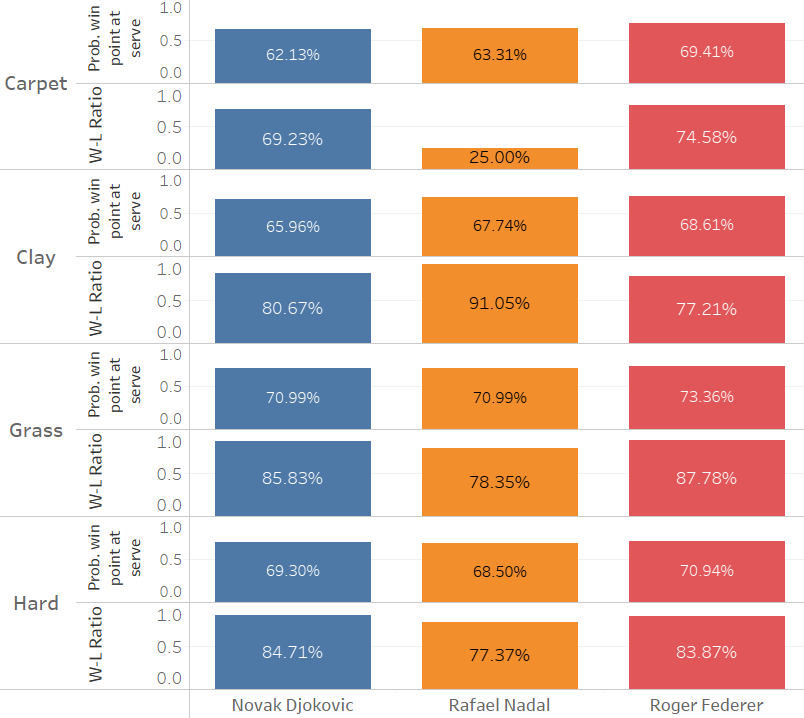
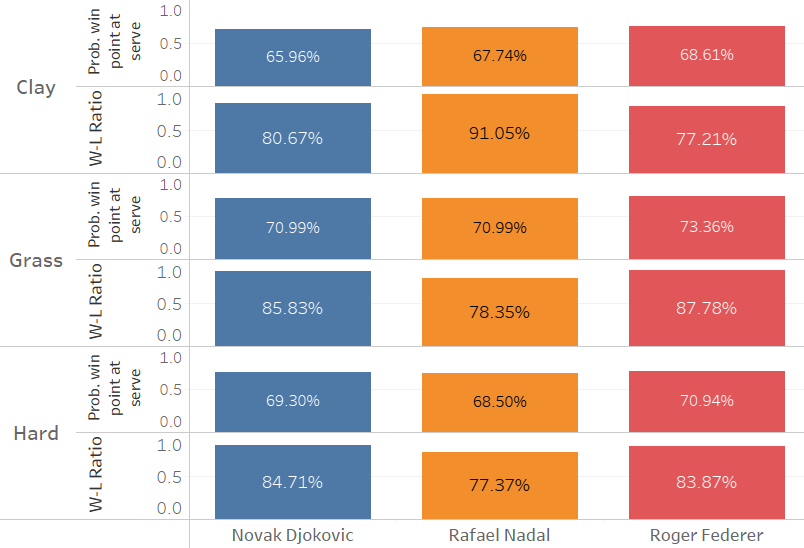
feat: corrections 1

diff --git a/README.md b/README.md
@@ -22,9 +22,13 @@
 <br> <br>
 
 ## INTRODUCTION
+Tennis is one of the most popular sports globally, acording to the Internationa Tennis Federation is calculated that 87 million of people played the white sport in 2022, which is an increment of 4.5% from 2018, more than 578,000 courts ara available worldwide in over 115,000 facilities. 
+
+As tennis is growing as a sport globally, the professional tennis circuit is growing accordingly, more people are interested to follow it and the accessibility to watch events happening around the world is better than ever. 
+
 There have been many great tennis players throughout the years, but none of them have shaped the sport as the Big Three. Roger Federer, Rafael Nadal, and Novak Djokovic are considered the greatest players that ever hold a tennis racket.
 
-In this project, I aim to analyze their performance and compare their statistics to gain insights into their careers, their strengths, and weaknesses. By examining data on their matches, rankings, and Grand Slam victories, I hope to shed light on the careers of these tennis legends and what has made them some of the greatest players to ever grace the court.
+In this project, I aim to analyze their performance and compare their statistics to gain insights into their careers. By examining data on their matches, rankings, and Grand Slam victories, I hope to showcase the careers of these players and what has made them some of the greatest athletes to ever grace the court.
 
 <br>
 
@@ -38,16 +42,13 @@ In this project, I aim to analyze their performance and compare their statistics
 <br>
 
 ## DATASET
-To answer my guiding questions, I am using data of every match played in the profesional tennis circuit. Data was obtained from a Git repository named [Tennis ATP](https://github.com/JeffSackmann/tennis_atp) that was created and is currently maintained by Jeff Sackman. Important statistics of every match can be observed, alongside information about the tournaments, ranking and more.
+To answer my guiding questions, I am using data of every match played in the profesional tennis circuit from 2020 to 2022. Data was obtained from a Git repository named [Tennis ATP](https://github.com/JeffSackmann/tennis_atp) that was created and is currently maintained by Jeff Sackman. Important statistics of every match can be observed, alongside information about the tournaments, ranking and more.
 
 <br>
 
 ## METHODOLOGY
 1. Problem Definition
-2. Data Cleaning
-    - Null values
-    - Type of columns
-    - Column names
+2. Data Cleaning and Wrangling
 3. Feature Engineering
 4. Deep Analysis
 5. Data Visualization
@@ -56,26 +57,26 @@ To answer my guiding questions, I am using data of every match played in the pro
 <br>
 
 ## TOOLS
-- Python: used for data cleaning, data wrangling and exploration of data
+- Python: used for data cleaning, wrangling, and exploration
     - [Pandas](https://pandas.pydata.org/)
     - [Numpy](https://numpy.org/)
     - [Matplotlib](https://matplotlib.org/)
     - [Seaborn](https://seaborn.pydata.org/)
-- Tableau: used to create final visualziations to showcase my findings
-- GitHub: used to have a version control of my work and publish my project using GitHub Pages.
+- Tableau: used to create visualziations to show my findings
+- GitHub: used for version control of my work and publish my project using GitHub Pages.
 
 <br>
 
 ## Q1: HOW DID FEDERER, NADAL AND DJOKOVIC MOVED IN THE RANKINGS THROUGHOUT THE YEARS?
-The ATP (Association of Tennis Professionals) Ranking is the system used by the men's professional tennis tour to determine the top players in the world based on their performance in tournaments. The rankings are updated on a weekly basis, and are an important factor in determining player seeding for tournaments, as well as in decisions regarding wildcard entries, direct acceptances, and special exempts. 
+The ATP (Association of Tennis Professionals) Ranking is the system used by the men's professional tennis circuit to determine the top players in the world based on their performance in tournaments. The rankings are updated on a weekly basis and are an important factor in determining player seeding for tournaments and special exempts. 
 
-On the following visualization we are able to see how Roger, Rafael and Novak moved in the ATP ranking throughout their careers.
+On the following visualization we can see how Federer, Nadal and Djokovik moved in the ATP ranking throughout their careers.
 
 <img src="images\q1_ranking.png" alt="Ranking" width="900"/> 
 
-As we can see, since 2004 these 3 players have dominated the ATP ranking. On the image above I am showing the end year ranking as the goal to every tennis player is finish the year at the top of the rankings, meaning there was no other player better than them in the season. Federer has finished 5 year-end no. 1 (2004, 2005, 2006, 2007, 2009), Nadal has 5 (2008, 2010, 2013, 2017, 2019) and Djokovic has the record with 7 (2011, 2012, 2014, 2015, 2018, 2020, 2021). Only 2 years since 2004 other tennis player apart from the big three have finished the year as no. 1, in 2016 Andy Murray and in 2022 Carlos Alcaraz.
+Since 2004 these 3 players have dominated the ATP ranking. Below, I am showing the end year ranking as the goal to every tennis player is finish the year at the top of the rankings, meaning there was no other player better than them in the season. Federer and Nadal have 5 year-end no. 1, the Swiss in 2004, 2005, 2006, 2007, and 2009, and the Spaniard in 2008, 2010, 2013, 2017, and 2019; however, Djokovic has the record with 7 during the years of 2011, 2012, 2014, 2015, 2018, 2020, and 2021. Only 2 years since 2004 other tennis player apart from the big three have finished the year as no. 1, in 2016 Andy Murray and in 2022 Carlos Alcaraz.
 
-Moreover, in the following table we can appreciate even more the dominance of the Big Three; since 2004 until January 30th of 2023, 941 have passed in which the Big Three have combined 802 week at the top of the ranking, this means that three players have shared the title of “best player of the world” more than 88% percent of the time. It is important to state that despite Djokovic hold the record for more weeks as no. 1, Federer holds the record for more consecutive weeks at the top with 237 starting February 2nd of 2004 and ended 17 August 2008 after loosing the Wimbledon final with Nadal.
+Moreover, in the following table we can appreciate the brutal dominance of the Big Three at the top of the rankings; since 2004 until January 30th of 2023, 941 weeks have passed in which the Big Three have combined 802 weeks at the top of the ranking, this means that three players have shared the title of “best player of the world” more than 88% percent of the time. It is important to state that despite Djokovic hold the record for more weeks as no. 1, Federer holds the record for more consecutive weeks at the top with 237 starting February 2nd of 2004 and ended 17 August 2008 after loosing the Wimbledon final with Nadal.
 
 <p align="center">
 <img src="images\q1_weeks.png" alt="Weeks as no. 1" width="400"/>
@@ -84,33 +85,33 @@ Moreover, in the following table we can appreciate even more the dominance of th
 <br>
 
 ## Q2: TITLES BREAKDOWN
-Winning an ATP tournament is the greatest accomplishment when entering to the professional level in tennis, winning tournaments mean more points for the ranking system and more money earned. Tournaments in the ATP circuit are divided by level:
-- _Grand Slam_: 4 tournam-ents per year. This type of events gives the most money and the most points, the winner wins 2000 ATP points. 
-- _Master Finals_: 1 tournament per year and only the best 8 players throughout the year can enter. This tournament gives 1500 ATP points to the winner. 
-- _Master 1000_: 9 tournaments per year. The winner gets 1000 ATP points. 
-- _Event 500_: 11 tournaments per year. The winner gets 500 ATP points. 
-- _Event 250_: 42 tournaments per year. The winner gets 250 ATP points. 
+Winning an ATP tournament is the greatest accomplishment when entering to professional tennis, winning tournaments means more ATP points and more money, Grand slams give the most money and points; for more information on how the point allocation works for every round won on all tournament levels you can click [here](https://www.atptour.com/en/rankings/rankings-faq). Tournaments in the ATP circuit are divided by level:
+- _Grand Slam_: 4 tournaments per year. Winner gets 2000 ATP points. 
+- _Master Finals_: 1 tournament per year and only the best 8 players of the year can enter. Winner gets 1500 ATP points. 
+- _Master 1000_: 9 tournaments per year. Winner gets 1000 ATP points. 
+- _Event 500_: 11 tournaments per year. Winner gets 500 ATP points. 
+- _Event 250_: 42 tournaments per year. Winner gets 250 ATP points. 
 
-On average a player outside the top 100 of the world plays around 20 – 30 tournaments in a year, as a player start earning more points and move up the rankings they can be more selected on which tournaments to play; a player inside the top 20 only plays on average 15 – 20 tournaments to be on a good shape and get the best results in the best tournaments of the year. 
+On average a player outside the top 100 of the world plays around 20 – 30 tournaments in a year, as a player starts earning more points and move up the rankings they can be more selective on which tournaments to play; a player inside the top 20 only plays on average 15 – 20 tournaments to be on a good shape and get the best results in the important tournaments of the year. 
 
 Here below we can see a line graph that represents the breakdown of the titles of the Big Three during their careers. 
 
 <img src="images\q2_titles_count.png" alt="Titles count through the years" width="1200"/>
 
-As we observed, Roger Federer is the one with most titles among the 3, with 103, being the only active player that has surpassed the barrier of 100 titles won. In a single season Federer holds the record for a male player with most titles with 12 in the season of 2006. Novak Djokovik is in a close second with 94 titles and Nadal is last with 92. 
+As we observed, Roger Federer is the one with most titles among the 3, with 103, being the only active player that has surpassed the barrier of 100 titles won. Federer holds the record for a male player with most titles with 12 in a single season (2006). Novak Djokovik is in a close second with 94 titles and Nadal is last with 92. 
 
-To understand better what big tournaments (Grand Slams, M1000 and World Tour Finals) the Big Three has won over the years I created the following Tree Map, subdivided by tournament and player; the size and color are represented with the number of matches won in the event, first number is the number of wins and second is the number is the number of titles won. Nadal has dominated the French Open since his first title in 2005 at the age of 19. Federer has more wins in the rest of the Grand Slams, Wimbledon with 106, Australian Open with 103 and US Open with 91. 
+To understand better what big tournaments (Grand Slams, M1000 and World Tour Finals) the Big Three has won over the years I created the following Tree Map, subdivided by tournament and player; the size and color are represented with the number of matches won in the event, first number is the number of wins and second is the number is the number of titles won. Nadal has dominated the French Open since his first title in 2005 at the age of 19. Federer has more wins in the rest of the Grand Slams, Wimbledon with 106, Australian Open with 103 and US Open with 91, Djokovik just won his 10th Australina Open last month. 
 
 <img src="images\q2_titles_tree.png" alt="Big titles and matches won distribution" width="1200"/>
 
-As we mentioned Grand Slams tournaments are the most prestigious event in the year, the titles that all tennis players cherish the most. Since July of 2003 there has been 79 Gran Slams held, the Big Three has won 64 of them, in other words they have won 81% of the Grand Slams in the last 20 years. In the graph below we can see Federer has a total of 20, being more dominant in Wimbledon with 8 titles, Nadal and Djokovic are tight with 22, 14 titles for the Spaniard in Roland Garros and 10 titles for the Serbian in the Australian Open, those torunaments are their best performing Slams.
+As we mentioned Grand Slams tournaments are the most prestigious events in the year, the titles that all tennis players cherish the most. Since July of 2003 there has been 79 Gran Slams held, the Big Three has won 64 of them, in other words they have won 81% of the Grand Slams in the last 20 years. In the graph below we can see Federer has a total of 20, being more dominant in Wimbledon with 8 titles, Nadal and Djokovic are tight with 22, 14 titles for the Spaniard in Roland Garros and 10 titles for the Serbian in the Australian Open.
 
 <img src="images\q2_grand_slams_count.png" alt="GS count through the years" width="1200"/>
 
 <br>
 
 ## Q3: BEST SINGLE SEASON OF THE BIG THREE
-During their career the has been moments when these athletes played in a godly manner, appearing to be invincible, on this question I want to showcase the best season of their carers and analysing the most important stats. To have a comparison, in the table below is represented the win-lose ratio of their career. 
+During their career the has been moments when these athletes played in a godly manner, appearing to be invincible. In this question I want to showcase the best season of their carers and analysing the most important stats. To have a comparison, in the table below is represented the win-lose ratio of their career. 
 
 <p align="center">
 <img src="images\q3_WL_ratio_career.png" alt="Career´s Win-Lose Ratio" width="300"/>
@@ -122,9 +123,9 @@ During their career the has been moments when these athletes played in a godly m
 
 <img src="images\q3_nadal.png" alt="Nadal's 2013 season" width="1200"/>
 
-Considerer one of the greatest comeback seasons of all time, as the previous year Nadal was not playing since June due a to an injury, he even missed the first Grand Slam of the year, the Australian Open. He finished the year as no. 1 player of the world, 11 titles, including 2 Grand Slams (Roland Garros and US Open) and 4 M1000. 
+Considerer one of the greatest comeback seasons of all time, as the previous year Nadal did not played since June due a to an injury, he missed the first Grand Slam of the year, the Australian Open. He finished the year as no. 1 player of the world, 11 titles, including 2 Grand Slams (Roland Garros and US Open) and 4 M1000. 
 
-He had a a win-lose ratio of 92.5% (9.88% over the WL Ratio oh his career), winning 81 matches out of 88. He lost only two matches during the clay season and won 6 clay titles. He accumulated a 22 winning streak during a the clay court season, ending with a lost in first round in Wimbledon against Steve Darcis, being the only lost he had before a semifinals during the year. 
+He had a a win-lose ratio of 92.5% (9.88% over the WL Ratio oh his career), winning 81 matches out of 88. He lost only two matches, won 6 clay titles and accumulated a 22 winning streak during a the clay court season, ending with a lost in first round in Wimbledon against Steve Darcis, being the only lost he had before a semifinals during the year. 
 
 <p align="center">
 <img src="images\q3_nadal_matches.png" alt="Nadal´s 2013 matches" width="500"/>
@@ -136,9 +137,9 @@ He had a a win-lose ratio of 92.5% (9.88% over the WL Ratio oh his career), winn
 
 <img src="images\q3_djokovic.png" alt="Djokovic's 2015 season" width="1200"/>
 
-Djokovic began a dominance in profesional tennis in the season of 2011, but his greatest season came in 2015, considered one of the greatest seasons of all time. He reached the final of all of the Grand Slam, winning 3 Australian Open, Wimbledon and US Open. The serbian was the no. 1 player of the world for the whole year, won 6 M1000 tournament and reaching the final in 8 of them and even claiming the ATP World Tour Finals, an event that only the 8 best player of the year can enter. 
+Djokovic began a dominance in profesional tennis in the season of 2011, but his greatest season came in 2015, considered one of the greatest seasons of all time. He reached the final of all of the Grand Slam and won 3, Australian Open, Wimbledon and US Open. The serbian was the no. 1 player of the world for the whole year, won 6 M1000 tournament and reached the final in 8 of them. At the end of the year he claimed the ATP World Tour Finals, an event that only the 8 best player of the year can enter. 
 
-Djokovik ended his 2015 season with 11 tittles won, a Win-Lose Ratio of 93.26% (9.64% over the WL Ratio oh his career), winning 83 matches out of 89. He finished the season with a record of of 4-0 againts Nadal, even beating him at the quarter finals of Roland Garros, and a record of 5-3 versus Federer, including his victory in the Wimbledon Final. He lost to Ivo Karlovik in the quarter finals of the Qatar Open, making this tournament the only onw in which he did´t got at least to the final. Novak Djokovic is considered the player of the 2010s decade.
+Djokovic ended his 2015 season with 11 tittles, a Win-Lose Ratio of 93.26% (9.64% over the WL Ratio oh his career), winning 83 matches out of 89. He finished the season with a record of of 4-0 againts Nadal, even beating him at the quarter finals of Roland Garros, and a record of 5-3 versus Federer, including his victory in the Wimbledon Final. He lost to Ivo Karlovik in the quarter finals of the Qatar Open, making this tournament the only in which he didn´t get at least to the final. Novak Djokovic is considered the player of the 2010-2020 decade.
 
 <p align="center">
 <img src="images\q3_djokovic_matches.png" alt="Djokovic´s 2015 matches" width="500"/>
@@ -150,9 +151,9 @@ Djokovik ended his 2015 season with 11 tittles won, a Win-Lose Ratio of 93.26% (
 
 <img src="images\q3_federer.png" alt="Federer's 2006 season" width="1200"/>
 
-During the end of 2003 until 2007 we saw the Swiss dominated professional tennis like no one has done it before and probably no player would ever do it again. Roger´s 2006 season is considered by many tennis experts the best tennis season of the open era. He maintained the no. 1 position in the ATP ranking for the whole year and finished no. 1 for a third year in a row, he won 3 Grand Slams, the Australian Open, Wimbledon for a fourth time in a row and the US Open for a third time in a row; he lost in the Final of Roland Garros to the king of clay. 
+During the end of 2003 until mid 2008 we saw the Swiss dominated professional tennis like no one has done it before and probably no player would ever do it again. Roger´s 2006 season is considered by many tennis experts the best tennis season of the open era. He maintained the no. 1 position in the ATP ranking for the whole year and finished no. 1 for a third year in a row, he won 3 Grand Slams, the Australian Open, Wimbledon for a fourth time in a row and the US Open for a third time in a row; he lost in the Final of Roland Garros to the Nadal. 
 
-In addition to that, Federer reached the finals in 6 M100 finals from the 7 that he entered and won 4 on hard courts and loosing 2 in clay. He won the ATP World Tour Finals. He finished the year with a record of 12 titles, becoming the male player with most titles in a single season. He ended the season with a Win-Lose Ratio of 94.85% (12.07 over the WL Ratio oh his career), winning 92 matches out of 97, he finished the year with a 27 winning streak that continued in the 2007 season to win 41 matches in a row. He reached the finals of every tournament he played but the Cincinnati Masters where he lost to Andy Murray in the second round. Roger Federer is considered the tennis player of the 2000s decade.
+In addition to that, Federer reached the finals in 6 M100 finals from the 7 that he entered and won 4 on hard courts and loosing 2 in clay. He won the ATP World Tour Finals. He finished the year with a record of 12 titles, becoming the male player with most titles in a single season. He ended the season with a Win-Lose Ratio of 94.85% (12.07 over the WL Ratio oh his career), winning 92 matches out of 97, he finished the year with a 27 winning streak that continued in the 2007 season, reaching 41 matches won in a row. He reached the finals of every tournament he played but the Cincinnati Masters where he lost to Andy Murray in the second round. Roger Federer is considered the tennis player of the 2000-2010 decade.
 
 <p align="center">
 <img src="images\q3_federer_matches.png" alt="Federer´s 2006 matches" width="500"/>
@@ -161,11 +162,11 @@ In addition to that, Federer reached the finals in 6 M100 finals from the 7 that
 <br>
 
 ## Q4: WHO PERFORMS BETTER UNDER PREASURE?
-In tennis, pressure points are moments in a match when the outcome could significantly impact the outcome of the game, set, or match. These moments often arise in critical situations, such as during crucial points in a game, break points, set points, or match points. 
+In tennis, pressure points are moments in a match when the outcome could significantly impact the outcome of the match. These moments often arise in critical situations, such as break points, set points, or match points. 
 
-On the following graph we can observe three important statistics, break point saved ratio at serving, break point conversion ratio ar return and preassure points won ratio, which is an average of the previous two; this last one is the best representation on how good a player is handling the preassure.
+On the following graph we can observe three important statistics, break points saved ratio at serving, break points conversion ratio at return, and preassure points won ratio, which is an average of the previous two; this last one is the best representation on how good a player when stakes are higher.
 
-Nadal has the higher score in this statistic with a 54.09% during his career, Djokovic in close second and Federer in third place. One of the key aspects to win important points, apart from the tennis skills, is the mental strength of the player and the ability to manage the nerves, Rafael Nadal is considered by many the greatest fighter on tour and with one of the toughest mentalities on tour.  
+Nadal has the highest score for pressure points won ratio with a 54.09%, Djokovic in close second and Federer is last. One of the key aspects to win important points, apart from the tennis skills, is the mental strength of the players and the ability to manage nerves, Rafael Nadal is considered by many the greatest fighter on tour and possesses one of the toughest mentalities on tour.
 
 <p align="center">
 <img src="images\q5_preassure_points.png" alt="Preassure points ratio" width="550"/>
@@ -174,9 +175,9 @@ Nadal has the higher score in this statistic with a 54.09% during his career, Dj
 <br>
 
 ## Q5: HOW DOES THEIR SERVE STATISTICS VARIES ACCORDING TO THE SURFACE PLAYED?
-The serve is considered the most important shot in tennis because it sets the tone for the entire point. A good serve gives a player a significant advantage and allows them to dictate the pace of the rally. If a player can consistently serve well, they can control the game, put pressure on their opponent, and create opportunities for easy points. Additionally, serving well can also help a player maintain their confidence and mental edge throughout the match.
+The serve is considered the most important shot in tennis because it sets the tone for the entire point. A good serve gives a player a significant advantage and allows them to dictate the pace of the rally. If a player can consistently serve well, they can control the game and put constant pressure on their opponents. 
 
-In the table below we can observe the most importat statistics to analyze a good serve.
+In the table below we can observe the most importat statistics to analyze a good serve:
 
 - $\text{1st serve ratio} = \frac{\text{[no. of 1st serves in]}}{\text{[total 1st serves]}}$
 
@@ -188,7 +189,9 @@ In the table below we can observe the most importat statistics to analyze a good
 
 - $\text{Prob. of winning a point when serve is good} = \text{[1st serve ratio] } * \text{ [Prob. of winning a point after a succesful 1st serve]} + (1 - \text{[1st serve ratio]}) * \text{ [2nd serve ratio] } * \text{ [Prob. of winning a point after a succesful 2nd serve]}$
 
-On the graph below we see that Nadal has the higher 1st serve percentage with 67.74% and Federer the best 2nd serve with 93.87. Making a successful serve does not warranty you better results, you need to assure that is a good enough shot to help you dictate the point. According to Andrea Cazzaro, the best way to understand the influence of the serve in a match is to compute the probability of winning a point when the serve is in which is calculated with the probability of winning a point after a successful 1st serve and the probability of winning a point after a successful 2nd serve (formula described above). As we can see Federer has a better chance to win the point after having a successful serve with a 70.78%, Djokovic is second with 68.53% and Nadal last with 68.35%. Despite Federer not having the fastest serve with an average of 200 km/hr he is probably one of the best ones at varying effects and directions making his opponents always guessing what type of serve is coming. 
+On the graph below we see that Nadal has the higher 1st serve ratio with 67.74% and Federer the best 2nd serve ratio with 93.87%. Having more successful serves do not warranty you more points, you need to assure that is a good enough shot to help you dictate the point. According to Andrea Cazzaro, the best way to understand the influence of the serve in a match is to compute the probability of winning a point when the serve is successful, which is calculated with the probability of winning a point after a successful 1st serve and the probability of winning a point after a successful 2nd serve (formula described above). 
+
+As we can see Federer has a better chance to win a point after having a successful serve with 70.78%, Djokovic is second with 68.53% and Nadal last with 68.35%. Despite Federer not having the fastest serve with an average of 200 km/hr he is probably one of the best ones at varying effect and direction making the return very hard for his opponents.
 
 <p align="center">
 <img src="images\q5_serve_all.png" alt="Serve Statistics" width="600"/>
@@ -196,30 +199,32 @@ On the graph below we see that Nadal has the higher 1st serve percentage with 67
 
 <br>
 
-There are four different tennis surfaces in which professional tournaments are played, Hard, Clay, Grass and Carpet; depending on the surface the ball will bounce in different speeds and high altering completely how the opponent will fell the coming serve; thus players need to make adjustments in their game. 
+To understand how the court surfaces affect their serve, we need to understand first, the difference of each surface. There are three tennis surfaces in which professional tournaments are played, hard, clay, and grass; depending on the surface the ball will bounce at different speeds and altitude, altering completely how the opponent will feel the coming serve.
 
-- _Hard Courts_: most common type of surface composed on asphalt and concrete with a coating of paint or acrylic on top. This type of surface has lower energy assumption than clay courts, making the ball move faster. This benefits aggressive players that like to play from the baseline. 
-- _Clay courts_: clay courts are made of a coarse mixture made from brick. Clay courts is the slowest surface for ball speed, making it easier to return a high speed serve. In the contrary if offers high bounce so players that hit with a lot of topspin are highly favourable; moreover, points tend to last longer. 
-- _Grass Courts_: a grass surface consists of short-cut grass on a tightly packed soil, being the less common surface today due to the high cost of maintenance. Grass is the fastest surface and offers the lowest bounce, making rallies short and fast, this type of courts is beneficial to great servers. 
-- _Carpet Courts_: also called synthetic, offers all the advantages of a grass court like the high speed and low bounce but with a super low maintenance cost. On top of the synthetic fiber sand covers the court to help it decrease the wear over time. 
+- _Hard Courts_: most common type of surface composed of asphalt and concrete with a coating of paint or acrylic on top. This type of surface has lower energy assumption than clay courts, making the ball move faster. This benefits aggressive players that like to play from the baseline. 
+- _Clay courts_: clay courts are made of a coarse mixture made from brick. Clay courts is the slowest surface, making it easier to return a high speed serve. In the contrary if offers high bounce so players that hit with lots of topspin are highly favourable; moreover, points tend to last longer. 
+- _Grass Courts_: consists of short-cut grass on a tightly packed soil, being the less common surface today due to the high cost of maintenance. Grass is the fastest surface and offers the lowest bounce, making rallies short and fast, this type of courts is beneficial to great servers. 
 
 <img src="images\q5_serve_surface.png" alt="Serve Statistics by surface played" width="700"/>
 
-Despite the serve is the most important shot in tennis, there are other important factors that can alter the outcome of the match, for example the physical condition of the player, ground strokes, volleys, mentally strength, etc. To showcase this argument, I included the W-L Ratio of their career by surface. Nadal has a 91.05% W-L ratio on Clay and he posses the longest win streak in a single surface with 81 matches won between 2005 and 2007. Djokovic best W-L ratio is on hard courts with 84.71% and Federer on Grass with 87.78%.
+As we were expecting, probability of winning a point after a successful serve varies in accordance to the speed of the surface, for clay in decreases between 2-3% and for grass it incremented between 1 and 3%, Roger Federer maintained the status as the best server of the three regardless of the court surface.
+
+As important as the serve is, there are other important factors that can alter the outcome of the match, for example the physical condition of the player, ground strokes, volleys, mentally strength, etc. I included the W-L Ratio of their career by surface to understand how good players are in each surface. Nadal has a 91.05% W-L ratio on Clay and he posses the longest win streak in a single surface with 81 matches won between 2005 and 2007. Djokovic best W-L ratio is on hard courts with 84.71% and Federer on Grass with 87.78%.
 
 <br>
 
 ## FINAL THOUGHTS
-The Big Three conformed by Roger Federer, Rafael Nadal, and Novak Djokovic, has dominated the tennis professional circuit for over two decades, winning everything that is to win, breaking every record and producing many of the greatest matches of all time. The debate for who is the Greatest Off All Time will not stop because what these legends have done is beyond measure, numbers can not fully encompass the extent of their legacy nor can describe what the millions of people they have inspired. 
+The Big Three conformed by Roger Federer, Rafael Nadal, and Novak Djokovic, has dominated the tennis professional circuit for over two decades, winning everything that is to win, breaking every record and producing many amazing matches. The debate for who is the Greatest Off All Time will not stop, what these legends have done is beyond measure, numbers can not fully encompass the extent of their legacy nor can describe how they inspired millions of people. 
 
-One thing is certain, they have redefined what it means to be a tennis player and the impact they have had on and off the court will be perpetual. 
+One thing is certain, they have redefined what it means to be a tennis player and the impact they have had on and off the court will be eternal. 
 
 <br>
 
 ## REFERENCES
 - ATP Tour. (2020). ATP Rankings FAQ. Obtained from ATP Rankings: https://www.atptour.com/en/rankings/rankings-faq
-- Cazzaro, A. (5 de July de 2020). Understanding the Importance of First Serve in Tennis with Data Analysis. Obtained from Medium: https://towardsdatascience.com/understanding-the-importance-of-first-serve-in-tennis-with-data-analysis-4829ab088d36
+- Cazzaro, A. (July 5th, 2020). Understanding the Importance of First Serve in Tennis with Data Analysis. Obtained from Medium: https://towardsdatascience.com/understanding-the-importance-of-first-serve-in-tennis-with-data-analysis-4829ab088d36
 - Master Class. (7 de June de 2021). Explore the 4 Types of Tennis Courts, From Clay to Synthetic. Obtained from Master Class - Articles: https://www.masterclass.com/articles/types-of-tennis-courts
+- Musa, M. (January 18th, 2023). How Many People Play Tennis in the World? Obtained from Tennis Racket Ball: https://tennisracketball.com/guide/how-many-people-play-tennis/?gclid=CjwKCAiAuaKfBhBtEiwAht6H75-ooTLgJnCaocXWVKTXLVdRglm7pzgHph4fibmf1pOlx_T2OXg1hhoCnJMQAvD_BwE
 
 
 
